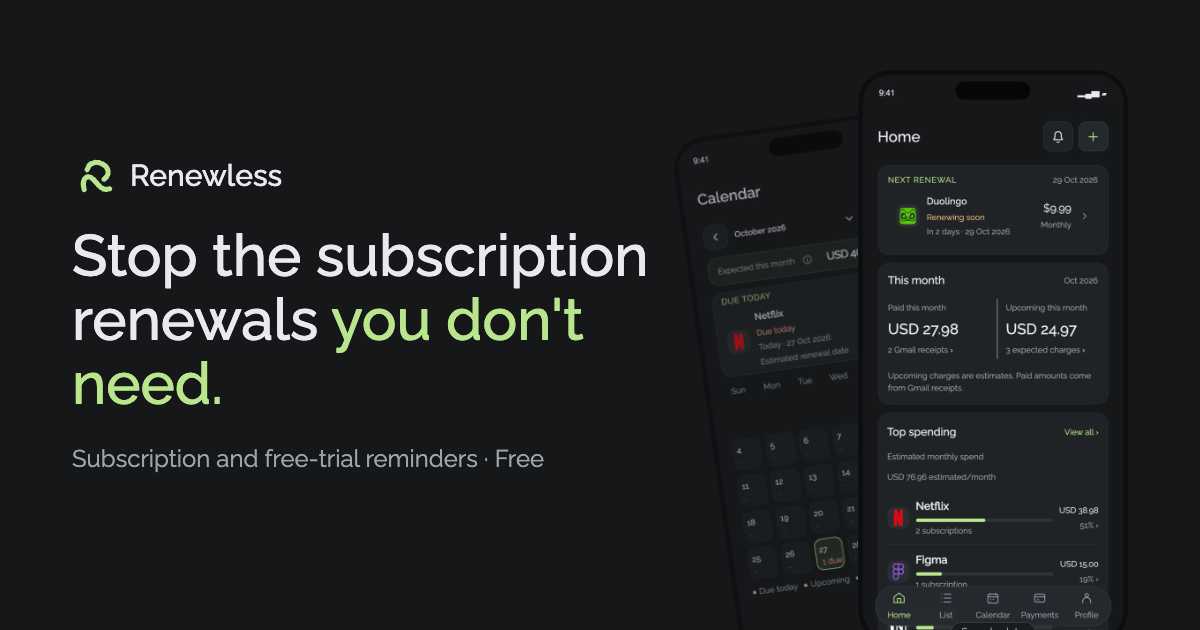
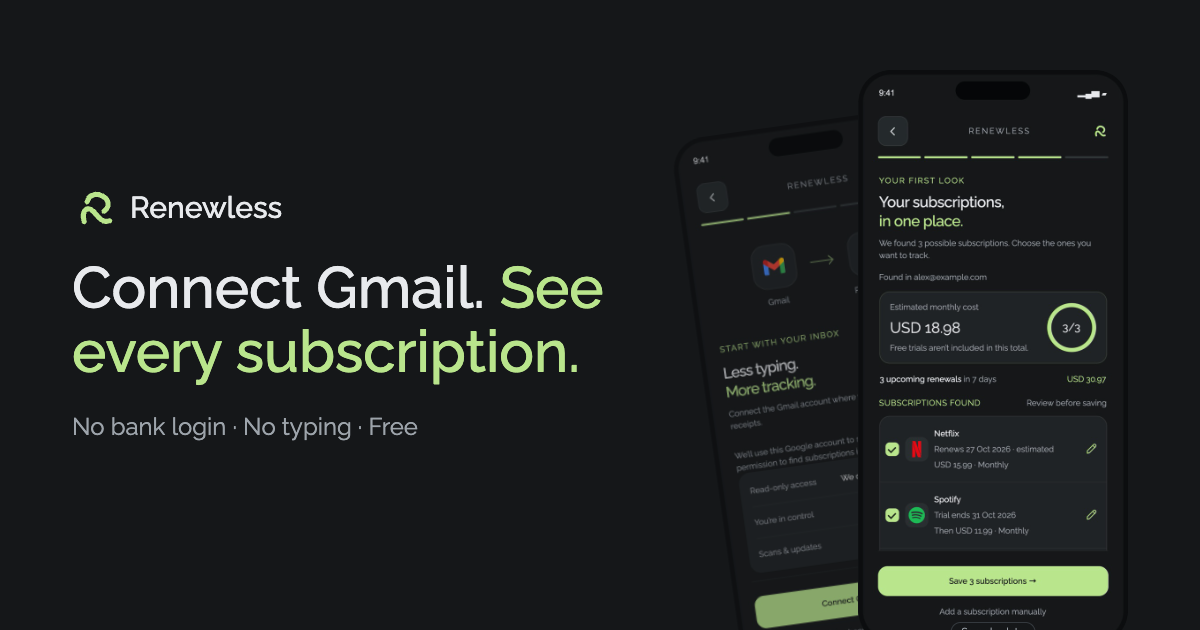
Lead the hero with onboarding: connect Gmail, see every subscription
The hero phone is a two-tap demo of the real onboarding screens (Connect
Gmail, discovering, found subscriptions, ready, Home). Headline, checks,
page title, descriptions and the share image now say no bank login and no
typing. The how-it-works heading drops the one-minute timing claim.

diff --git a/public/index.html b/public/index.html
@@ -4,14 +4,14 @@
   <meta charset="utf-8">
   <meta name="viewport" content="width=device-width, initial-scale=1">
   <meta name="theme-color" content="#151719">
-  <title>Renewless · Subscription and free-trial reminders</title>
-  <meta name="description" content="Renewless keeps your subscriptions and free trials in one place, finds them in Gmail, and reminds you before they renew. Every feature is free.">
+  <title>Renewless · Connect Gmail, see every subscription</title>
+  <meta name="description" content="Connect Gmail and Renewless lists your subscriptions and free trials for you, then reminds you before they renew. No bank login, no typing. Every feature is free.">
   <link rel="canonical" href="https://renewlessapp.com/">
   <meta property="og:type" content="website">
   <meta property="og:url" content="https://renewlessapp.com/">
   <meta property="og:site_name" content="Renewless">
-  <meta property="og:title" content="Renewless · Stop the subscription renewals you don't need">
-  <meta property="og:description" content="Track subscriptions and free trials, find them in Gmail, and get reminded before they renew. Every feature is free.">
+  <meta property="og:title" content="Renewless · Connect Gmail. See every subscription.">
+  <meta property="og:description" content="Connect Gmail and Renewless lists your subscriptions and free trials for you, then reminds you before they renew. No bank login, no typing. Every feature is free.">
   <meta property="og:image" content="https://renewlessapp.com/og.png">
   <meta property="og:image:width" content="1200">
   <meta property="og:image:height" content="630">
@@ -33,7 +33,7 @@
   <script>if (/\.(web\.app|firebaseapp\.com)$/.test(location.hostname)) location.replace('https://renewlessapp.com' + location.pathname + location.search + location.hash)</script>
   <link rel="icon" type="image/svg+xml" href="/favicon.svg">
   <link rel="preload" href="/fonts/Raleway-Medium.ttf" as="font" type="font/ttf" crossorigin>
-  <link rel="preload" href="/screens/home.jpg" as="image">
+  <link rel="preload" href="/screens/connect-inbox.jpg" as="image">
   <link rel="stylesheet" href="/styles.css">
   <script>document.documentElement.classList.add('js')</script>
   <script src="/main.js" defer></script>
@@ -59,12 +59,12 @@
     <section class="hero">
       <div class="wrap">
         <div data-reveal>
-          <span class="eyebrow">Subscription and free-trial reminders</span>
-          <h1>Stop the subscription renewals <em>you don't need.</em></h1>
-          <p class="hero-sub">Renewless keeps every subscription and free trial in one place, and tells you before it charges, so you decide what to keep.</p>
+          <span class="eyebrow">No bank login. No typing.</span>
+          <h1>Connect Gmail. <em>See every subscription.</em></h1>
+          <p class="hero-sub">Renewless reads your billing emails and lists your subscriptions and free trials for you. Then it reminds you before anything charges.</p>
           <ul class="checks">
-            <li><svg width="18" height="18" viewBox="0 0 24 24" fill="none" stroke="#b9e58c" stroke-width="2.5" stroke-linecap="round" stroke-linejoin="round" aria-hidden="true"><path d="M5 12.5l4.5 4.5L19 7.5"/></svg>Finds subscriptions in your Gmail, read-only</li>
-            <li><svg width="18" height="18" viewBox="0 0 24 24" fill="none" stroke="#b9e58c" stroke-width="2.5" stroke-linecap="round" stroke-linejoin="round" aria-hidden="true"><path d="M5 12.5l4.5 4.5L19 7.5"/></svg>Reminds you before renewals and trial ends</li>
+            <li><svg width="18" height="18" viewBox="0 0 24 24" fill="none" stroke="#b9e58c" stroke-width="2.5" stroke-linecap="round" stroke-linejoin="round" aria-hidden="true"><path d="M5 12.5l4.5 4.5L19 7.5"/></svg>One Google tap, no sign-up form</li>
+            <li><svg width="18" height="18" viewBox="0 0 24 24" fill="none" stroke="#b9e58c" stroke-width="2.5" stroke-linecap="round" stroke-linejoin="round" aria-hidden="true"><path d="M5 12.5l4.5 4.5L19 7.5"/></svg>Read-only Gmail access, never your bank</li>
             <li><svg width="18" height="18" viewBox="0 0 24 24" fill="none" stroke="#b9e58c" stroke-width="2.5" stroke-linecap="round" stroke-linejoin="round" aria-hidden="true"><path d="M5 12.5l4.5 4.5L19 7.5"/></svg>Every feature is free</li>
           </ul>
           <div class="badges">
@@ -73,12 +73,19 @@
           </div>
         </div>
 
-        <div class="hero-art" aria-hidden="true">
-          <div class="device back" data-reveal data-delay="1"><img src="/screens/calendar.jpg" alt="" width="611" height="1300"></div>
-          <div class="device front tilt" data-reveal data-delay="2"><img src="/screens/home.jpg" alt="" width="611" height="1300"></div>
+        <div class="hero-art">
+          <div class="device back" data-reveal data-delay="1" aria-hidden="true"><img src="/screens/calendar.jpg" alt="" width="611" height="1300"></div>
+          <!-- Tap-through demo of the real onboarding screens; main.js drives the steps -->
+          <div class="device front stack demo tilt" data-reveal data-delay="2" role="group" aria-label="Try the Renewless onboarding">
+            <img class="on" src="/screens/connect-inbox.jpg" alt="Connect Gmail screen" width="611" height="1300">
+            <img src="/screens/discovering.jpg" alt="Loop looking through billing emails" width="611" height="1300">
+            <img src="/screens/your-subscriptions.jpg" alt="Three subscriptions found" width="611" height="1300">
+            <img src="/screens/ready-to-go.jpg" alt="Ready to go" width="611" height="1300">
+            <img src="/screens/home.jpg" alt="Home with your subscriptions" width="611" height="1300">
+            <button class="tap" type="button" aria-label="Connect Gmail (demo)" data-hint="Tap to try"></button>
+          </div>
           <!-- Same title/body format as the app's reminder push (Renewless-backend reminders) -->
-          <div class="notif n1" data-reveal="left" data-delay="3"><img src="/favicon.svg" alt=""><div><small>RENEWLESS · now</small><strong>Duolingo</strong><span>Renews in 2 days · USD 9.99</span></div></div>
-          <div class="notif n2" data-reveal="right" data-delay="3"><img src="/favicon.svg" alt=""><div><small>RENEWLESS · 9:00 AM</small><strong>Spotify</strong><span>Trial ends tomorrow · then USD 11.99</span></div></div>
+          <div class="notif n1" data-reveal="left" data-delay="3" aria-hidden="true"><img src="/favicon.svg" alt=""><div><small>RENEWLESS · now</small><strong>Duolingo</strong><span>Renews in 2 days · USD 9.99</span></div></div>
           <svg class="loop-mascot" viewBox="200 200 624 624" aria-hidden="true"><rect x="200" y="200" width="624" height="624" rx="140" fill="#202326"/><path d="M 675.0 670.0 C 677.1 667.1 684.0 658.2 687.6 652.6 C 691.2 647.0 694.2 642.6 696.7 636.4 C 699.2 630.3 700.9 623.5 702.6 615.6 C 704.2 607.6 705.5 596.7 706.6 588.7 C 707.6 580.7 708.2 574.3 708.9 567.4 C 709.5 560.5 710.1 554.0 710.7 547.4 C 711.3 540.8 711.9 534.3 712.4 527.7 C 713.0 521.1 713.5 514.6 714.1 508.0 C 714.7 501.4 715.4 494.5 716.0 487.9 C 716.6 481.2 717.3 474.8 718.0 468.1 C 718.7 461.5 719.3 454.7 720.0 447.9 C 720.7 441.0 721.7 433.6 722.3 426.9 C 722.9 420.1 723.6 415.0 723.7 407.6 C 723.8 400.1 724.0 389.8 722.9 382.0 C 721.7 374.2 719.9 368.1 717.0 360.6 C 714.1 353.1 709.2 343.5 705.3 337.0 C 701.4 330.5 698.3 326.5 693.7 321.4 C 689.2 316.4 683.7 311.0 678.0 306.6 C 672.3 302.1 666.0 298.1 659.6 294.7 C 653.2 291.3 646.0 288.4 639.7 286.1 C 633.4 283.9 629.0 282.3 621.9 281.3 C 614.7 280.2 605.0 279.7 596.6 279.9 C 588.1 280.0 578.5 281.4 571.1 282.1 C 563.8 282.8 559.0 283.4 552.6 284.0 C 546.2 284.6 539.6 285.3 532.9 286.0 C 526.2 286.7 519.3 287.3 512.4 288.0 C 505.5 288.7 498.5 289.3 491.6 290.0 C 484.7 290.7 477.7 291.3 471.0 292.0 C 464.3 292.7 457.7 293.3 451.3 294.0 C 444.9 294.7 438.7 295.2 432.6 296.0 C 426.4 296.8 421.2 297.4 414.6 298.7 C 407.9 300.0 399.0 301.9 392.6 303.9 C 386.1 305.8 381.4 307.7 375.9 310.6 C 370.3 313.4 364.2 317.0 359.1 321.0 C 354.0 325.0 349.4 329.5 345.3 334.4 C 341.2 339.4 337.8 344.8 334.6 350.6 C 331.3 356.3 328.2 362.5 325.7 368.9 C 323.2 375.2 321.1 382.0 319.7 388.9 C 318.3 395.7 317.9 403.3 317.1 410.0 C 316.4 416.7 315.9 422.6 315.3 429.1 C 314.7 435.7 314.1 442.5 313.4 449.1 C 312.8 455.8 312.2 462.2 311.6 469.0 C 310.9 475.8 310.2 482.8 309.6 489.9 C 308.9 496.9 308.4 504.0 307.7 511.1 C 307.1 518.3 306.4 525.6 305.7 532.6 C 305.0 539.5 304.4 545.9 303.7 552.7 C 303.0 559.5 302.5 566.0 301.7 573.3 C 300.9 580.6 299.4 589.0 299.1 596.7 C 298.8 604.4 298.8 612.0 299.9 619.4 C 300.9 626.8 303.2 634.4 305.3 641.0 C 307.4 647.6 309.4 653.1 312.3 659.0 C 315.2 664.9 318.6 670.8 322.7 676.4 C 326.8 682.0 331.5 687.7 336.9 692.7 C 342.2 697.7 348.7 702.5 355.0 706.6 C 361.3 710.7 368.5 714.5 374.7 717.4 C 380.9 720.3 385.7 722.3 392.4 724.0 C 399.1 725.7 408.0 727.1 414.9 727.7 C 421.7 728.3 427.4 728.0 433.6 727.6 C 439.8 727.2 445.8 726.0 452.1 725.3 C 458.5 724.6 465.1 724.1 471.9 723.4 C 478.6 722.8 485.7 722.1 492.7 721.4 C 499.7 720.8 506.6 720.1 513.7 719.4 C 520.8 718.7 528.3 718.0 535.3 717.3 C 542.3 716.6 549.3 715.9 555.7 715.3 C 562.1 714.7 567.6 714.1 573.9 713.6 C 580.1 713.0 589.8 712.3 593.0 712.0 C 596.2 711.7 593.0 712.0 593.0 712.0" stroke="#B9E58C" stroke-width="58" stroke-linecap="round" stroke-linejoin="round" fill="none"/><ellipse class="eye" cx="449.7" cy="500" rx="25" ry="34" fill="#B9E58C"/><ellipse class="eye" cx="573.4" cy="500" rx="25" ry="34" fill="#B9E58C"/></svg>
         </div>
       </div>
@@ -143,7 +150,7 @@
       <div class="wrap">
         <div class="section-head center" data-reveal>
           <span class="eyebrow">How it works</span>
-          <h2>From inbox to list in a minute</h2>
+          <h2>From inbox to list in four steps</h2>
           <p>Connect Gmail once. Renewless finds your subscriptions, you keep the ones you want.</p>
         </div>
         <div class="flow">

diff --git a/public/styles.css b/public/styles.css
@@ -187,6 +187,8 @@ section { padding: 96px 0; scroll-margin-top: 64px; }
 .hero-art .device { position: absolute; }
 .hero-art .back { width: 250px; left: 2%; top: 80px; rotate: -9deg; opacity: .7; }
 .hero-art .front { right: 8%; top: 0; animation: float 6s ease-in-out infinite; }
+/* frames crossfade through opacity: keep the back phone from showing through */
+.hero-art .front.stack { background: var(--bg); }
 .hero-art .back::after { display: none; }
 
 .notif {
@@ -209,7 +211,6 @@ section { padding: 96px 0; scroll-margin-top: 64px; }
 .notif span { color: var(--secondary); }
 .notif small { display: block; color: var(--secondary); font-size: 10px; letter-spacing: .04em; }
 .hero-art .n1 { left: 0; top: 28px; animation: float 5s ease-in-out infinite .6s; }
-.hero-art .n2 { right: 0; bottom: 70px; animation: float 5.5s ease-in-out infinite 1.4s; }
 
 .loop-mascot { position: absolute; left: 20%; bottom: 0; width: 92px; height: 92px; z-index: 3; }
 .loop-mascot .eye { transform-box: fill-box; transform-origin: center; animation: eye-blink 5s infinite; }
@@ -413,6 +414,7 @@ section { padding: 96px 0; scroll-margin-top: 64px; }
   .hero-art .back { width: 190px; left: 0; }
   .notif { width: 236px; }
   .loop-mascot { display: none; }
+  .hero-art .n1 { display: none; } /* would cover the demo screen on a phone */
   .device { width: 240px; }
 }
 
@@ -429,3 +431,30 @@ section { padding: 96px 0; scroll-margin-top: 64px; }
 .qr img { border-radius: 12px; background: #fff; padding: 8px; box-sizing: content-box; }
 .qr p { max-width: 14em; font-size: 15px; }
 @media (hover: none), (max-width: 900px) { .qr { display: none; } }
+
+/* ---------- Hero tap-through demo (main.js sets the step) ---------- */
+.demo img { opacity: 0; transition: opacity .45s var(--ease); }
+.demo img.on { opacity: 1; }
+.tap {
+  position: absolute; z-index: 2; left: 7.5%; width: 85%; top: var(--top, 80.7%); height: var(--h, 5.6%);
+  border: 0; border-radius: 999px; background: transparent; cursor: pointer; padding: 0;
+  animation: tap-pulse 1.6s ease-out infinite;
+}
+.tap:focus-visible { outline: 2px solid var(--text); outline-offset: 3px; }
+.tap[hidden] { display: none; }
+.tap::before {
+  content: attr(data-hint); position: absolute; left: 50%; bottom: calc(100% + 10px); translate: -50% 0;
+  white-space: nowrap; background: var(--accent); color: var(--on-accent); font: 500 13px/1 Raleway, sans-serif;
+  padding: 8px 12px; border-radius: 999px; box-shadow: 0 6px 20px rgba(0, 0, 0, .4);
+  animation: hint-bob 1.6s ease-in-out infinite;
+}
+.tap::after {
+  content: ""; position: absolute; left: 50%; bottom: calc(100% + 4px); translate: -50% 0;
+  border: 6px solid transparent; border-top-color: var(--accent); border-bottom: 0;
+  animation: hint-bob 1.6s ease-in-out infinite;
+}
+.tap.replay { left: 50%; width: auto; translate: -50% 0; top: auto; bottom: 14%; height: auto; padding: 10px 18px; background: var(--accent); color: var(--on-accent); font: 500 14px/1 Raleway, sans-serif; animation: none; }
+.tap.replay::before, .tap.replay::after { display: none; }
+.js .tap:not(.ready) { display: none; }
+@keyframes tap-pulse { 0% { box-shadow: 0 0 0 0 rgba(185, 229, 140, .7); } 100% { box-shadow: 0 0 0 14px rgba(185, 229, 140, 0); } }
+@keyframes hint-bob { 50% { transform: translateY(-4px); } }

diff --git a/public/main.js b/public/main.js
@@ -50,3 +50,44 @@ if (!reduce && matchMedia('(hover: hover) and (pointer: fine)').matches) {
     el.addEventListener('mouseleave', () => { el.style.transform = '' })
   }
 }
+
+// Hero demo: two taps walk through the real onboarding screens
+const demo = document.querySelector('.demo')
+if (demo) {
+  const shots = [...demo.querySelectorAll('img')]
+  const tap = demo.querySelector('.tap')
+  // screen index, where the tap target sits (% of the screenshot), its label, or ms before moving on
+  const steps = [
+    { tap: [80.7, 5.6], label: 'Connect Gmail (demo)', hint: 'Tap to try' },
+    { wait: 2600 },
+    { tap: [86.5, 5.2], label: 'Save subscriptions (demo)', hint: 'Save them' },
+    { wait: 2400 },
+    { replay: true },
+  ]
+  let timer, refocus = false
+  const show = i => {
+    clearTimeout(timer)
+    const step = steps[i]
+    shots.forEach((img, n) => { img.classList.toggle('on', n === i); img.setAttribute('aria-hidden', n !== i) })
+    tap.hidden = Boolean(step.wait)
+    tap.classList.toggle('replay', Boolean(step.replay))
+    tap.textContent = step.replay ? 'Replay' : ''
+    if (step.tap) {
+      tap.style.setProperty('--top', step.tap[0] + '%')
+      tap.style.setProperty('--h', step.tap[1] + '%')
+      tap.dataset.hint = step.hint
+      tap.setAttribute('aria-label', step.label)
+    } else if (step.replay) tap.setAttribute('aria-label', 'Replay the demo')
+    if (step.wait) timer = setTimeout(() => show(i + 1), reduce ? 800 : step.wait)
+    // keyboard users keep their place while the button hides during a wait
+    else if (refocus) tap.focus({ preventScroll: true })
+    demo.dataset.step = i
+  }
+  tap.addEventListener('click', () => {
+    const i = Number(demo.dataset.step)
+    refocus = document.activeElement === tap
+    show(steps[i].replay ? 0 : i + 1)
+  })
+  tap.classList.add('ready')
+  show(0)
+}

diff --git a/public/og-source.html b/public/og-source.html
@@ -22,12 +22,12 @@
 <body>
   <div class="t">
     <span class="wordmark"><img src="/favicon.svg" alt="">Renewless</span>
-    <h1>Stop the subscription renewals <em>you don't need.</em></h1>
-    <p>Subscription and free-trial reminders · Free</p>
+    <h1>Connect Gmail. <em>See every subscription.</em></h1>
+    <p>No bank login · No typing · Free</p>
   </div>
   <div class="phones">
-    <div class="device a"><img src="/screens/calendar.jpg" alt=""></div>
-    <div class="device b"><img src="/screens/home.jpg" alt=""></div>
+    <div class="device a"><img src="/screens/connect-inbox.jpg" alt=""></div>
+    <div class="device b"><img src="/screens/your-subscriptions.jpg" alt=""></div>
   </div>
 </body>
 </html>
